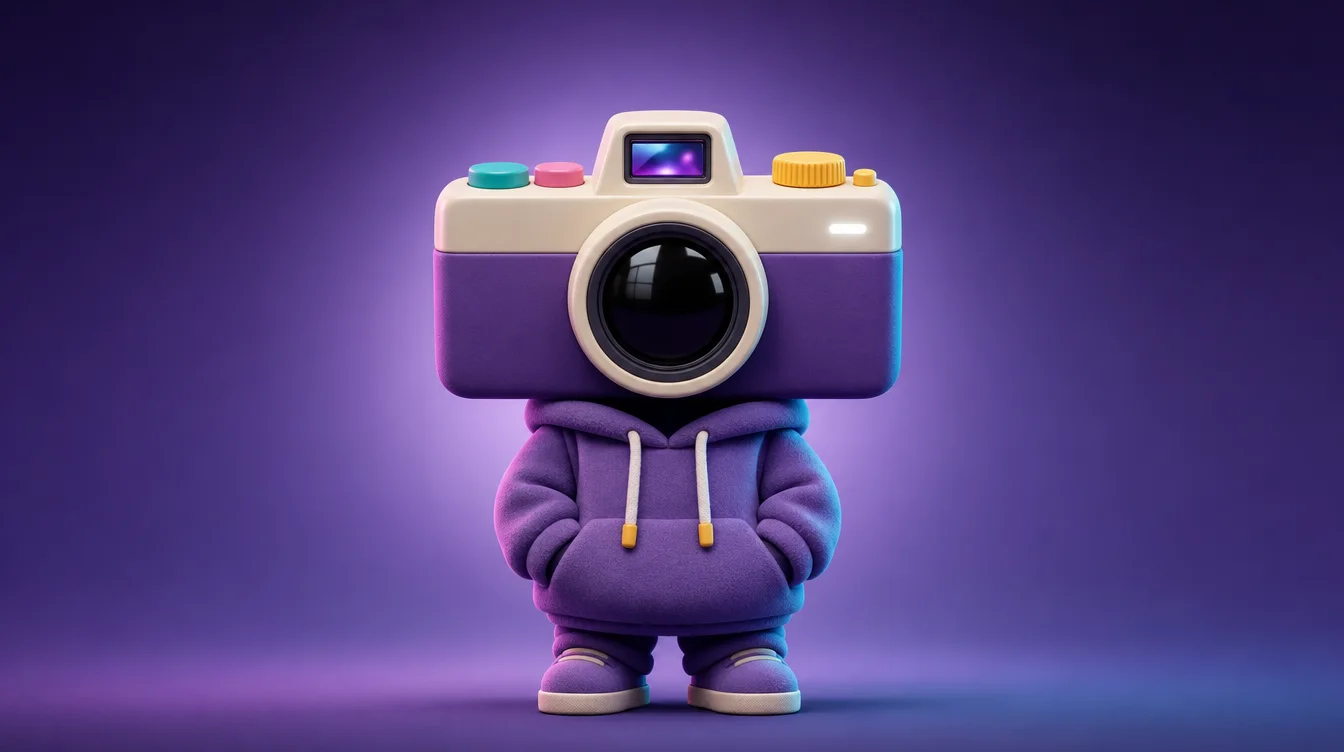
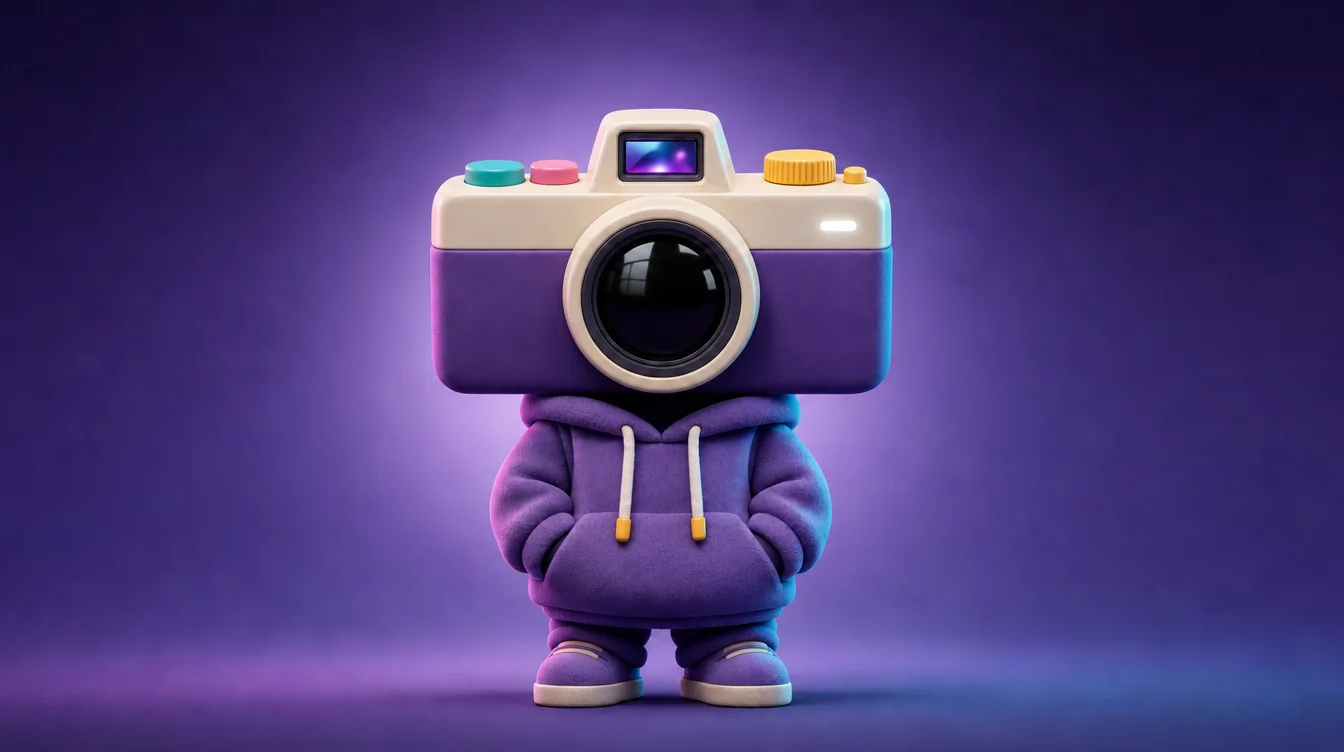
feat: WITCH turns his head to follow the mouse
The face now genuinely tracks the cursor instead of the whole image
translating. Mechanism: three coherent renders of the same character
(head turned left / facing forward / turned right, generated i2i from
the canonical render for consistency) are crossfaded by the spring-
damped cursor X, so moving the mouse visibly rotates the head into a
three-quarter view. The official star eye rides the lens: its position
interpolates between the measured lens centers of the three views,
tilts in perspective (rotateY up to 30deg) and keeps a small pupil
offset toward the cursor, plus the existing blink.

Per the ui-ux-pro-max motion guidance: continuous interpolation instead
of per-event tweens, clamped pull strength, will-change only on the
animated layers, and all listeners cleaned up on unmount. The full-image
translate/rotate is dialed way down (9px/1.1deg) so the head turn reads
as the primary motion.

Center view re-rendered through the same i2i pipeline so all three
frames share identical felt texture, pose and background; the previous
smoother render caused a visible material jump mid-blend. Side views are
desktop-only layers (~32 KB webp each); mobile keeps the portrait with
autonomous gaze, reduced motion stays fully static.

Verified by screenshot: cursor bottom-left turns the head left, top-right
turns it right, star stays locked to the turned lens; zero console
errors, build green.

Claude-Session: https://claude.ai/code/session_0187aEd29nMVQSrDfPBsErcz

Changed region(s): [[0.3125, 0.1223, 0.6875, 0.9787]]

diff --git a/components/mascot/HeroStage.tsx b/components/mascot/HeroStage.tsx
@@ -36,10 +36,24 @@ export function HeroStage() {
   const sx = useSpring(tx, { stiffness: 55, damping: 13, mass: 1 });
   const sy = useSpring(ty, { stiffness: 55, damping: 13, mass: 1 });
 
-  // Charakter: dreht sich leicht ZUM Cursor, hebt sich minimal
-  const charX = useTransform(sx, (v) => v * 16);
-  const charY = useTransform(sy, (v) => v * 9);
-  const charR = useTransform(sx, (v) => v * 2.2);
+  // Charakter: dezente Grundbewegung — die eigentliche Aussage ist die
+  // Kopfdrehung (Ansichten-Überblendung) + Pupillen-Blick des Logo-Auges
+  const charX = useTransform(sx, (v) => v * 9);
+  const charY = useTransform(sy, (v) => v * 6);
+  const charR = useTransform(sx, (v) => v * 1.1);
+
+  // Kopfdrehung: drei Renderings (links/frontal/rechts) werden nach
+  // Cursor-X überblendet — deterministisch, gefedert, umkehrbar.
+  const oL = useTransform(sx, [-0.85, -0.16], [1, 0]);
+  const oR = useTransform(sx, [0.16, 0.85], [0, 1]);
+  const oC = useTransform([oL, oR] as const, ([l, r]: number[]) => 1 - Math.max(l, r));
+
+  // Das Logo-Auge klebt auf der Linse: Position wandert mit der Ansicht,
+  // dazu Pupillen-Offset und leichte 3D-Neigung Richtung Cursor.
+  const eyeLeft = useTransform(sx, [-1, 0, 1], ["44.5%", "48.9%", "58.1%"]);
+  const eyeRotY = useTransform(sx, (v) => v * 30);
+  const pupilX = useTransform(sx, (v) => v * 9);
+  const pupilY = useTransform(sy, (v) => v * 7);
   // Karten: eigene Tiefe, gegenläufig
   const cardX = useTransform(sx, (v) => v * -26);
   const cardY = useTransform(sy, (v) => v * -14);
@@ -133,7 +147,7 @@ export function HeroStage() {
 
       {/* ---------- Der Charakter ---------- */}
       <motion.div
-        className="witch-stage relative mx-auto aspect-[4/5] w-full max-w-[560px] sm:max-w-[640px] lg:aspect-[16/9] lg:max-w-none"
+        className="witch-stage relative mx-auto aspect-[4/5] w-full max-w-[560px] [perspective:900px] sm:max-w-[640px] lg:aspect-[16/9] lg:max-w-none"
         style={reduce ? undefined : { x: charX, y: charY, rotate: charR }}
         animate={
           reduce
@@ -141,30 +155,52 @@ export function HeroStage() {
             : { y: [0, -7, 0], transition: { duration: 5.2, repeat: Infinity, ease: "easeInOut" } }
         }
       >
-        <picture>
-          <source media="(min-width: 1024px)" type="image/avif" srcSet="/mascot/witch-wide.avif" />
-          <source media="(min-width: 1024px)" srcSet="/mascot/witch-wide.webp" />
-          <source type="image/avif" srcSet="/mascot/witch-portrait.avif" />
-          <img
-            src="/mascot/witch-portrait.webp"
-            alt="WITCH, das Netwitcher-Maskottchen: eine Figur mit Kamera-Kopf im lila Hoodie"
-            className="h-full w-full object-cover"
-            fetchPriority="high"
-          />
-        </picture>
-
-        {/* Echtes Logo als leuchtendes Auge — blinzelt eigenständig */}
         <motion.div
-          className="absolute"
+          className="h-full w-full will-change-[opacity]"
+          style={coarse || reduce ? undefined : { opacity: oC }}
+        >
+          <picture>
+            <source media="(min-width: 1024px)" type="image/avif" srcSet="/mascot/witch-wide.avif" />
+            <source media="(min-width: 1024px)" srcSet="/mascot/witch-wide.webp" />
+            <source type="image/avif" srcSet="/mascot/witch-portrait.avif" />
+            <img
+              src="/mascot/witch-portrait.webp"
+              alt="WITCH, das Netwitcher-Maskottchen: eine Figur mit Kamera-Kopf im lila Hoodie"
+              className="h-full w-full object-cover"
+              fetchPriority="high"
+            />
+          </picture>
+        </motion.div>
+
+        {/* Seitenansichten: nur Desktop, per Cursor-X eingeblendet */}
+        {!coarse && !reduce && (
+          <>
+            <motion.picture className="absolute inset-0 hidden will-change-[opacity] lg:block" style={{ opacity: oL }} aria-hidden="true">
+              <source type="image/avif" srcSet="/mascot/witch-wide-left.avif" />
+              <img src="/mascot/witch-wide-left.webp" alt="" className="h-full w-full object-cover" loading="eager" decoding="async" />
+            </motion.picture>
+            <motion.picture className="absolute inset-0 hidden will-change-[opacity] lg:block" style={{ opacity: oR }} aria-hidden="true">
+              <source type="image/avif" srcSet="/mascot/witch-wide-right.avif" />
+              <img src="/mascot/witch-wide-right.webp" alt="" className="h-full w-full object-cover" loading="eager" decoding="async" />
+            </motion.picture>
+          </>
+        )}
+
+        {/* Echtes Logo als leuchtendes Auge — folgt der Linse, blinzelt */}
+        <motion.div
+          className="absolute [transform-style:preserve-3d]"
           style={{
-            left: "var(--eye-x)",
+            left: coarse || reduce ? "var(--eye-x)" : (eyeLeft as unknown as string),
             top: "var(--eye-y)",
             width: "var(--eye-s)",
-            // KEIN transform hier: framer-motion überschreibt transform beim
-            // Animieren von scale. Zentrierung über negative Margins
+            // KEIN statisches transform: framer-motion verwaltet transform
+            // selbst (x/y/rotateY/scale). Zentrierung über negative Margins
             // (Margin-Prozente beziehen sich auf die Containerbreite).
             marginLeft: "calc(var(--eye-s) / -2)",
             marginTop: "calc(var(--eye-s) / -2)",
+            x: reduce ? 0 : pupilX,
+            y: reduce ? 0 : pupilY,
+            rotateY: coarse || reduce ? 0 : eyeRotY,
           }}
           animate={
             reduce

diff --git a/app/globals.css b/app/globals.css
@@ -96,9 +96,9 @@
   }
   @media (min-width: 1024px) {
     .witch-stage {
-      --eye-x: 49.9%;
-      --eye-y: 40%;
-      --eye-s: 8%;
+      --eye-x: 48.9%;
+      --eye-y: 39.8%;
+      --eye-s: 8.6%;
     }
   }
 
